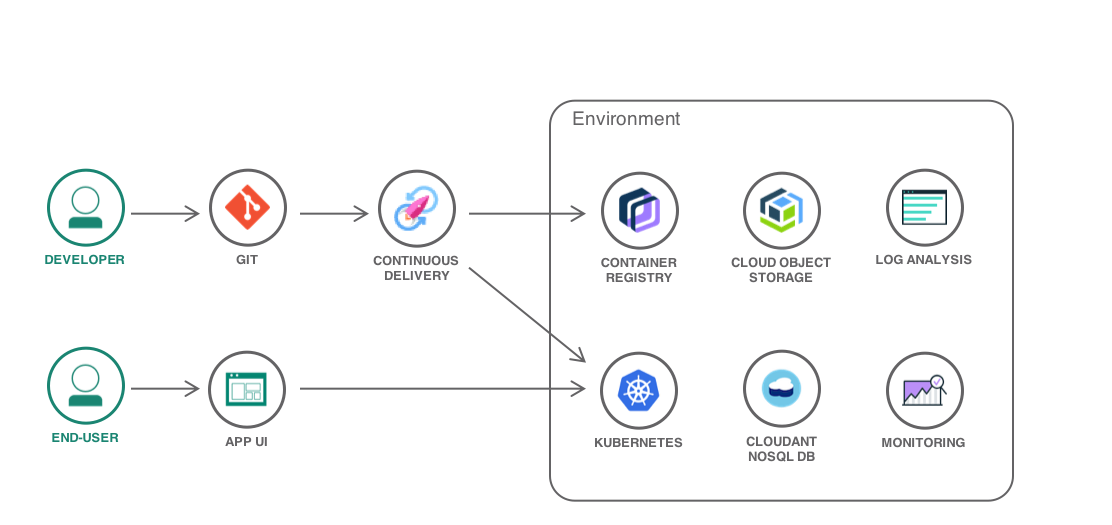
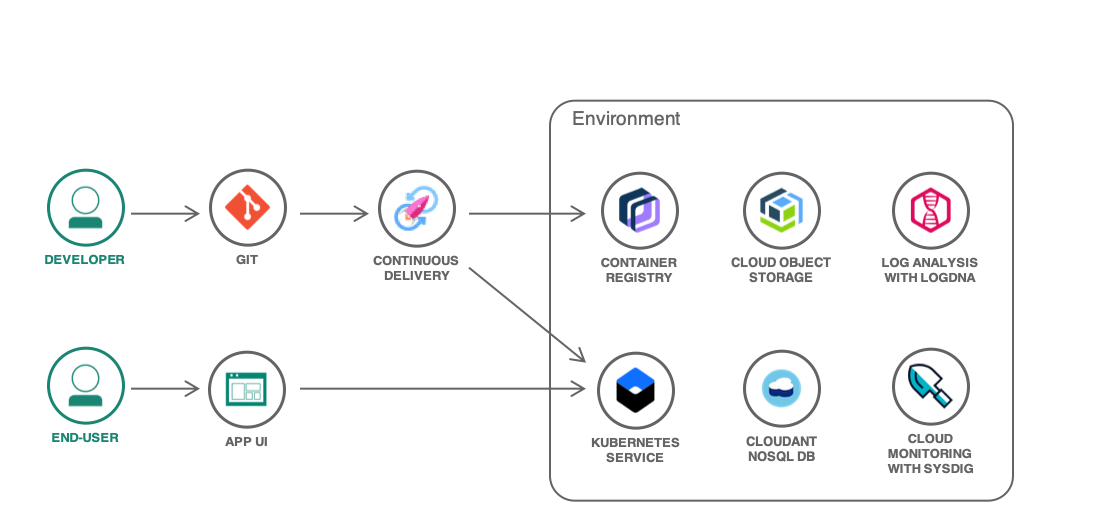
Updated Solution 20 -diagrams and content

diff --git a/users-teams-applications.md b/users-teams-applications.md
@@ -1,7 +1,7 @@
 ---
 copyright:
   years: 2018, 2019
-lastupdated: "2019-03-07"
+lastupdated: "2019-04-16"
 ---
 
 {:java: #java .ph data-hd-programlang='java'}
@@ -102,10 +102,9 @@ Let's start by building the Development environment.
    1. [Create a Cloud Foundry space for the environment](https://{DomainName}/docs/account?topic=account-orgsspacesusers#spaceinfo).
    1. Create the Cloud Foundry services used by the project under this space
 1. [Create a resource group for the environment](https://{DomainName}/account/resource-groups).
-1. Create the services compatible with resource group like {{site.data.keyword.cos_full_notm}} and {site.data.keyword.cloudant_short_notm}} in this group.
+1. Create the services compatible with resource group like {{site.data.keyword.cos_full_notm}}, {{site.data.keyword.la_full_notm}}, {{site.data.keyword.mon_full_notm}}, and {{site.data.keyword.cloudant_short_notm}} in this group.
 1. [Create a new Kubernetes cluster](https://{DomainName}/containers-kubernetes/catalog/cluster) in {{site.data.keyword.containershort_notm}}, make sure to select the resource group created above.
-1. Select your cluster [in the console](https://{DomainName}/containers-kubernetes/clusters).
-1. Use *Enable Logging* to redirect the cluster logs to the Cloud Foundry space created in the previous steps. If later you want to change the space where the cluster is sending its logging data, you can use the [logging plugin for the ibmcloud command line](https://{DomainName}/docs/containers?topic=containers-health#log_sources_update).
+1. Configure {{site.data.keyword.la_full_notm}} and {{site.data.keyword.mon_full_notm}} to send logs and to monitor the cluster.
 
 The following diagram shows where the project resources are created under the account:
 
